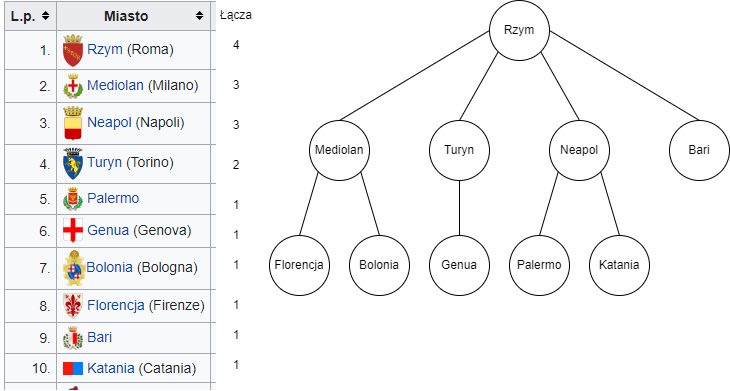
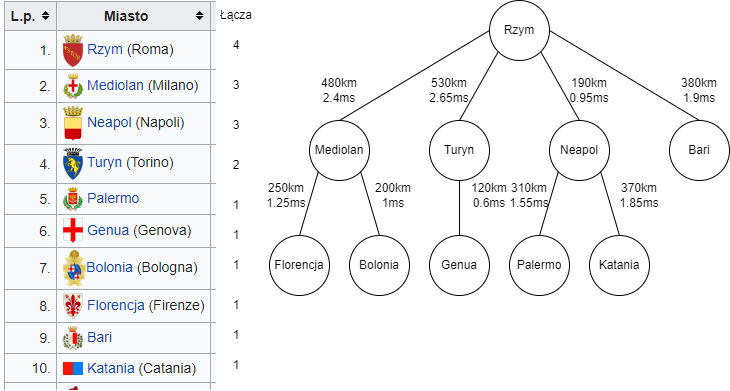
delay

diff --git a/MyTopo.py b/MyTopo.py
@@ -7,16 +7,16 @@ class MyTopo(Topo):
     def build(self):
         # Add hosts
 
-        rzymH = self.addHost('rzymH')
-        mediolanH = self.addHost('mediolanH')
-        neapolH = self.addHost('neapolH')
-        turynH = self.addHost('turynH')
-        palermoH = self.addHost('palermoH')
-        genuaH = self.addHost('genuaH')
-        boloniaH = self.addHost('boloniaH')
-        florencjaH = self.addHost('florencjaH')
-        bariH = self.addHost('bariH')
-        kataniaH = self.addHost('kataniaH')
+        rzym = self.addHost('rzym')
+        mediolan = self.addHost('mediolan')
+        neapol = self.addHost('neapol')
+        turyn = self.addHost('turyn')
+        palermo = self.addHost('palermo')
+        genua = self.addHost('genua')
+        bolonia = self.addHost('bolonia')
+        florencja = self.addHost('florencja')
+        bari = self.addHost('bari')
+        katania = self.addHost('katania')
 
         # Add switches
 
@@ -33,29 +33,30 @@ class MyTopo(Topo):
 
         # Add links H-S
 
-        self.addLink(rzymH, s1)
-        self.addLink(mediolanH, s2)
-        self.addLink(neapolH, s3)
-        self.addLink(turynH, s4)
-        self.addLink(palermoH, s5)
-        self.addLink(genuaH, s6)
-        self.addLink(boloniaH, s7)
-        self.addLink(florencjaH, s8)
-        self.addLink(bariH, s9)
-        self.addLink(kataniaH, s10)
+        self.addLink(rzym, s1)
+        self.addLink(mediolan, s2)
+        self.addLink(neapol, s3)
+        self.addLink(turyn, s4)
+        self.addLink(palermo, s5)
+        self.addLink(genua, s6)
+        self.addLink(bolonia, s7)
+        self.addLink(florencja, s8)
+        self.addLink(bari, s9)
+        self.addLink(katania, s10)
 
         # Add links S-S
         # self.addLink( node1, node2, bw=10, delay='5ms', max_queue_size=1000, loss=10, use_htb=True)
+        #  v=s/t t=s/v=s/200,000km/s = s/200 km/ms
 
-        self.addLink(s1, s2)
-        self.addLink(s1, s4)
-        self.addLink(s1, s3)
-        self.addLink(s1, s9)
-        self.addLink(s2, s8)
-        self.addLink(s2, s7)
-        self.addLink(s4, s6)
-        self.addLink(s3, s5)
-        self.addLink(s3, s10)
+        self.addLink(s1, s2, delay='2.4ms')  # 480
+        self.addLink(s1, s4, delay='2.65ms')  # 530
+        self.addLink(s1, s3, delay='0.95ms')  # 190
+        self.addLink(s1, s9, delay='1.9ms')  # 380
+        self.addLink(s2, s8, delay='1.25ms')  # 250
+        self.addLink(s2, s7, delay='1ms')  # 200
+        self.addLink(s4, s6, delay='0.6ms')  # 120
+        self.addLink(s3, s5, delay='1.55ms')  # 310
+        self.addLink(s3, s10, delay='1.85ms')  # 370
 
 
 topos = {'mytopo': (lambda: MyTopo())}
